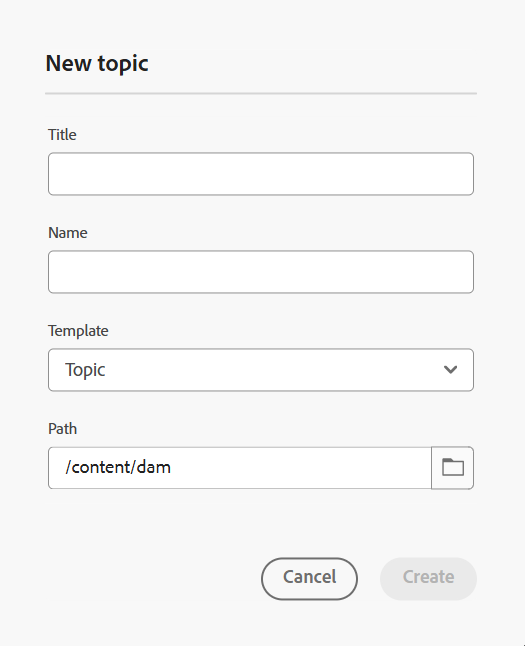
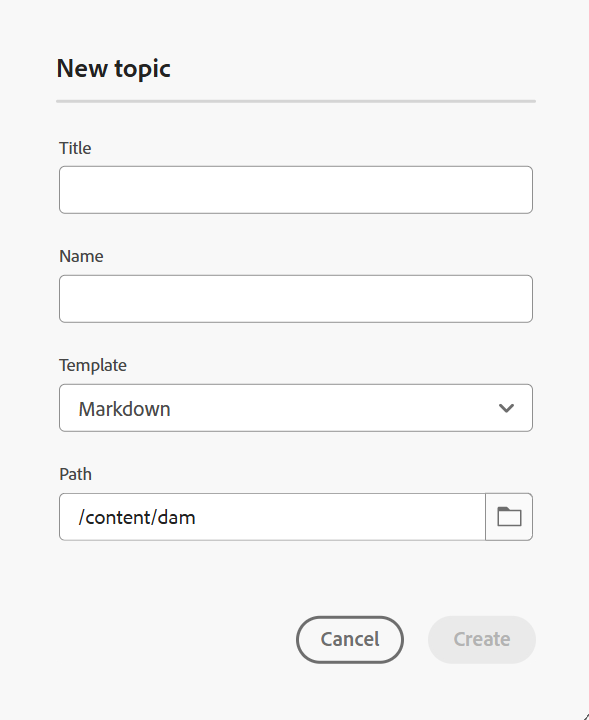
updated what's new

diff --git a/help/product-guide/release-info/whats-new-2025-02-0.md b/help/product-guide/release-info/whats-new-2025-02-0.md
@@ -8,9 +8,9 @@ role: Leader
 
 This article covers the new and enhanced features introduced with 2025.02.0 release of Adobe Experience Manager Guides as a Cloud Service.
 
-## Experience Manager Guides in a new look and feel 
+## Revamped Experience Manager Guides UI for enhanced productivity and experience
 
-Adobe Experience Manager Guides now features a revamped design and enhanced features to help you work faster and more efficiently than ever before. 
+Adobe Experience Manager Guides now features a revamped design and enhanced features to help you work faster and more efficiently than ever before. The new UI brings an intuitive and enhanced user experience, with an all-new home page, a cleaner and more organized editor toolbar, dedicated map console, and enhanced features. 
 
 The key highlights are as follows: 
 
@@ -21,7 +21,7 @@ The key highlights are as follows:
     ![](assets/aem-home-page.png){width="800" align="left"}
 
 
- - **New Editor experience**: Now, experience the Editor in a new look and feel. The revamped editor interface features a cleaner toolbar and enhanced features to help author documents faster and more efficiently.  
+ - **New Editor experience**: Now, experience the Editor in a new look and feel. The revamped editor interface features a cleaner and more organized toolbar, seamless navigation, and overall intuitive experience to help author documents faster and more efficiently.  
  
     Get to [know the Editor features](../user-guide/web-editor-features.md). 
 
@@ -33,15 +33,15 @@ The key highlights are as follows:
 
     ![](assets/map-console-new-ui.png){width="800" align="left"}
 
-## Adobe Workfront integration in Experience Manager Guides 
+## Integration with Adobe Workfront for robust work management capabilities 
 
 Experience Manager Guides now integrates seamlessly with Adobe Workfront, giving you access to robust project management features on top of Experience Manager Guides core CCMS capabilities. 
 
 With this integration, you can create and manage Adobe Workfront tasks directly from Experience Manager Guides. For example, as an author, you can create a review task (with one or more DITA topics or maps added) directly within the Experience Manager Guides interface and assign it to a reviewer. As a reviewer, you can work on assigned tasks in the Experience Manager Guides Review UI and return them to the author with comments. Similarly, you can create a publishing and translation task, and then assign it to the users who are required to work upon it.
 
-The integration also provides you the ability to monitor your work queues, ensuring you stay organized and on top of all your tasks (assigned tasks).
+The integration also provides you the ability to monitor your work queues, ensuring you stay organized and on top of all your tasks (assigned tasks). It also enables project managers to leverage the power of Adobe Workfront for in-depth project management within Experience Manager Guides.
 
-For more details, view [Workfront integration](../user-guide/workfront-integration.md). 
+For more details, refer [Workfront integration](../user-guide/workfront-integration.md). 
 
 ![](assets/workfront-integration-ui.png){width="800" align="left"}
 
@@ -54,15 +54,31 @@ For more details, view [AI Assistant in Experience Manager Guides](../user-guide
 
 ![](assets/ai-assistant-panel.png){width="300" align="left"}
 
-## Enhanced the Markdown authoring experience 
+## The all-new Markdown editor for rich authoring experience 
 
-Now, experience a cleaner and more efficient way to author markdown topics. Experience Manager Guides introduces a revamped interface and added features for markdown authoring, including Side-by-side view, editor toolbar, seamless publishing to AEM Sites and PDF, and more.  
+Now, experience a cleaner, more efficient, and powerful way to author markdown topics. Experience Manager Guides introduces a new Markdown editor interface with a well organized toolbar and advanced features, including a **Side-by-side** view to author and preview content at the same time. It also enables seamless publishing of Markdown topics that are a part of a map, to multiple channels.
 
 For more details, view [Markdown authoring](../user-guide/web-editor-markdown-topic.md). 
 
+![](assets/markdown-topic-side-by-side.png){width="300" align="left"}
+
+## Editor enhancements 
+
+## Review enhancements
+
+## Publishing enhancements
+
+## Content management enhancements
+
+### Custom metadata fields in reports
+
+This feature allows you to create custom metadata fields for reports. You can easily add these fields through **Settings**. Once created, you can view these fields under **Columns** in the Filter panel of the Reports, where you can select or deselect them to control their visibility. 
+
+For more details, refer [DITA map report from the Map Console](../user-guide/reports-web-editor.md)
+
 ## Native PDF enhancements
 
-The following Native PDF enhancements have been done in the 2025.02.0 release:
+The following Native PDF enhancements have been made as part of the release:
 
 - Introduced an option to enable or disable the DITA-OT preprocessing for Native PDF output. By default, the setting is set to**Enabled**.
 
@@ -82,8 +98,8 @@ The following Native PDF enhancements have been done in the 2025.02.0 release:
 
 The following Table enhancements have been done in the 2025.02.0 release:
 
-- Ability to configure the default values for header rows, body rows and columns in the table template for table and simpletable. 
-- Ability to configure the table settings to display pasted tables as simpletable or normal table. 
+- Ability to configure the default values for header rows, body rows and columns in the table or simpletable insertion dialog. 
+- Ability to configure the table settings to paste tables copied from external sources as simpletable or a table. 
 
     For more details, view the Tables section in [Know the Editor features](../user-guide/web-editor-features.md#content-insertion-options).  
 
@@ -98,7 +114,7 @@ The friendly name feature for DITA elements has been improved. Now, default enum
 
 ## Refresh button in the Translation UI 
 
-Introducing a Refresh button in the Translation UI that allows you to refresh the target languages list and baseline list in one click. 
+Introducing a Refresh button in the Translation UI that allows you to refresh the translation dashboard with updated files and status.
 
 ## Use Baseline while generating incremental AEM Sites output 
 
@@ -112,13 +128,15 @@ The following Review enhancements have been done in the 2025.02.0 release:
 
 - Now, when creating a review task, you can type in a project name to quickly locate and select it in the Project drop-down list. This enhancement removes the need to scroll through lengthy project lists, making it faster and more efficient to assign review tasks, especially when managing multiple projects. 
 
-- In the Editor and Review UI, the review comment box now support multi-line entries. You can expand it as needed for comprehensive comments, and also use **Shift**+**Enter** to go to the next line. 
+- In the Editor and Review UI, the review comment box now support multi-line entries. You can use **Shift**+**Enter** to go the next line. You can also expand the comment box while writing the comment.   
 
--  Now, you can access the review comments even when the review task is marked closed. 
+  For more details, view [Review topics](../user-guide/review-topics.md).  
 
-## Alternate text attributes for images enhanced
+-  Now, you can access the review comments even when the review task is marked closed. With the latest UI enhancements, the Review panel now features an option to access closed review tasks. 
+
+## Alternate text for images now added as an element
   
-  Images now use the `<alt>` attribute for alternate text, as per modern DITA standards. The use of `@alt` attribute for alternate text has been deprecated but remains supported in earlier DITA versions. 
+  Images now use the `<alt>` element for alternate text, as per the latest DITA standards. The use of `@alt` attribute for alternate text has been deprecated but remains supported in earlier DITA versions. 
 
 ## Customizing Cross-reference in the editor toolbar 
 

diff --git a/help/product-guide/user-guide/web-editor-markdown-topic.md b/help/product-guide/user-guide/web-editor-markdown-topic.md
@@ -23,6 +23,9 @@ Perform the following steps to create a Markdown topic from the Editor:
     * **Template**: Select **Markdown** from the dropdown list. The template **Topic** is selected by default. 
     * **Path**: Browse the path where you want to save the topic file. By default, the path of currently selected folder in the repository is shown in the Path field.
 
+    >![NOTE]
+    >
+    > In case of an upgrade, you need to add the Markdown template into the current folder profile in use. For details on how to add authoring templates in Experience Manager Guides, view [Configure global or folder-level profiles](../cs-install-guide/conf-folder-level.md).
 1. Select **Create**.
 
    The Markdown topic is created at the selected path and is open for editing.
@@ -38,15 +41,17 @@ Perform the following steps to create a Markdown topic from the Editor:
 
 This section walks you through the various features that are available in the Editor for Markdown topic authoring. The authoring interface is divided into the following sections or areas:
 
-* [Main toolbar](#main-toolbar)
-* [Secondary toolbar](#secondary-toolbar)
+* [Tab bar](#tab-bar)
+* [Toolbar](#toolbar)
 * [Content editing area](#content-editing-area)
 * [Source, Side-by-side, and Preview modes](#source-side-by-side-and-preview-modes)
 * [Right panel](#right-panel)
 
-### Main toolbar
+### Tab bar 
 
-The main toolbar is the top bar of the Editor interface. Features available in the main toolbar are explained as follows:
+The tab bar features the file tabs of the topics or maps that are currently opened in the Editor along with other file-level options. 
+
+Features available in the tab bar are explained as follows:
 
  ![](images/markdown-header.png){width="550" align="left"}
 
@@ -61,15 +66,15 @@ The main toolbar is the top bar of the Editor interface. Features available in t
 * **More actions**: Allows you to navigate to the **Assets UI**. As an administrator, you also get an option to navigate to the **Settings** page. Learn how to work with [settings](./web-editor-features.md#main-toolbar) or editor settings. 
 * **Expand view**: Allows you to expand the page view using the **Expand** icon. In this view, the header bar is hidden, maximizing the content space. To return to the standard view, use the **Exit the expanded view** icon.
 
-### Secondary toolbar
+### Toolbar
 
-The secondary toolbar is located just below the main toolbar. Features available in the secondary toolbar are explained as follows:
+The toolbar is located just below the tab bar. Features available in the toolbar are explained as follows:
 
  ![](images/markdown-main-toolbar.png){width="550" align="left"}
 
 | Features       | Description   | 
 |----------------|----------------|
-| Editing actions  | Provides access to various document editing features including **Undo**, **Copy**, **Delete**, and **Find and replace**. You can access the available options from the **Menu** dropdown. | 
+| Editing actions  | Provides access to various document editing features including **Cut** &nbsp;![](images/Smock_Cut_18_N.svg), **Undo** &nbsp;![](images/Smock_Undo_18_N.svg), **Copy** &nbsp;![](images/Smock_Copy_18_N.svg), **Delete** &nbsp;![](images/Smock_DeleteOutline_18_N.svg), and **Find and replace** &nbsp;![](images/Smock_FindandReplace_18_N.svg). You can access the available options from the **Menu** dropdown. | 
 | Text formatting options | Provides access to various text formatting options including **Headings**, **Bold**, **Italic**, **Strikethrough**, **Code**, and **Block quote**.|
 | Content insertion options | Provides options to insert a **Numbered list**, **Ordered list**, **Table**, **Image**, **Cross reference**, and **Symbol** into a document.| 
 | Version history|  Allows you to create versions of markdown files and view the history of changes. You can compare different versions and revert to previous ones if needed. The Version history option is present in the **Menu** dropdown.|

diff --git a/help/product-guide/user-guide/intro-dxml-features.md b/help/product-guide/user-guide/intro-dxml-features.md
@@ -53,9 +53,9 @@ Make publishing error-free by easily checking and correcting content before it g
 **Extensive tag management support for personalized output**   
 Drive deeper end-user engagement and content adoption through highly relevant content experiences. With AEM Guides, you can leverage the extensive tag management support in Experience Manager to apply relevant tags on DITA source content. Use these tags to provide highly personalized content experiences to end users.
 
-**AI-powered conversational search and authoring**
+**GenAI powered smart help and authoring**
 
-Enhance productivity with AI-powered conversational search and content reuse features in Experience Manager Guides. Use the GenAI-based conversational search to quickly find relevant content from the Experience Manager Guides documentation. Use smart suggestions to reuse the content from the existing content repository or enhance productivity with one-click content enhancement features such as smartly convert a paragraph to a list, create a short description, improve and translate the selected content.
+Enhance productivity with AI-powered smart help and content reuse features in Experience Manager Guides. Use the GenAI-based smart help to quickly find relevant content from the Experience Manager Guides documentation. Use smart suggestions to reuse the content from the existing content repository or enhance productivity with one-click content enhancement features such as smartly convert a paragraph to a list, create a short description, improve and translate the selected content.
 
 **Plan, assign, and execute tasks from one place**.
 
